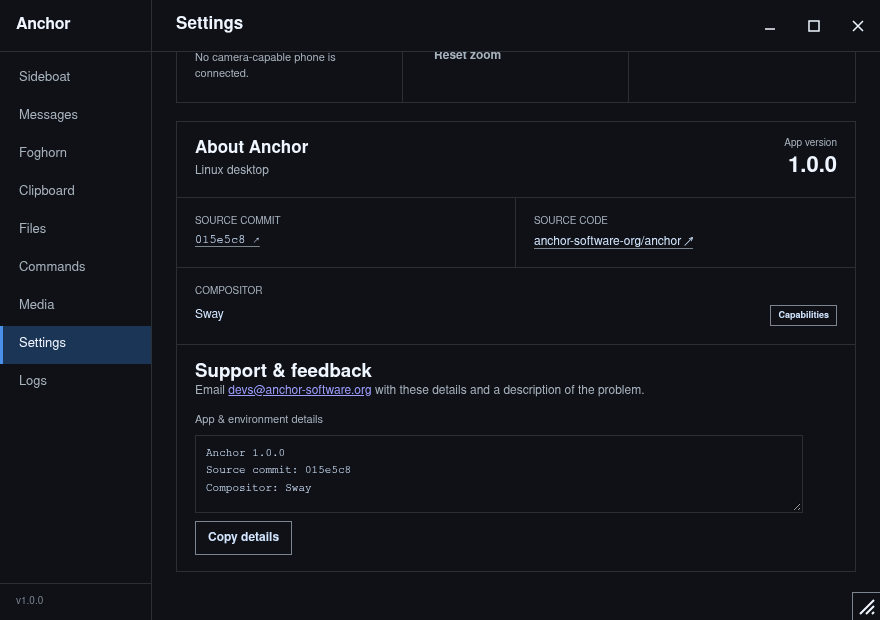
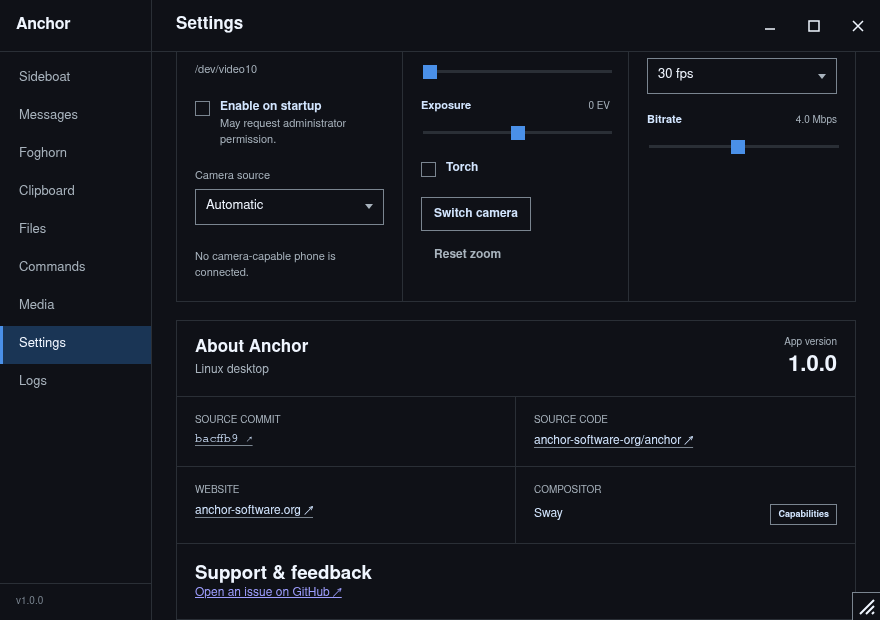
Add Android About links and route support to GitHub

diff --git a/anchor/app/src/main/java/com/anchor/MainActivity.kt b/anchor/app/src/main/java/com/anchor/MainActivity.kt
@@ -2333,34 +2333,7 @@ fun SettingsScreen(
                         Text("Terms of service", modifier = Modifier.weight(1f))
                         Icon(Icons.Default.ChevronRight, contentDescription = null, tint = AnchorGray)
                     }
-                    HorizontalDivider()
-                    Row(
-                        modifier = Modifier
-                            .fillMaxWidth()
-                            .clickable {
-                                val subject = Uri.encode(
-                                    "Anchor Android feedback (v${BuildConfig.VERSION_NAME}, ${BuildConfig.GIT_HASH})"
-                                )
-                                context.startActivity(
-                                    Intent(
-                                        Intent.ACTION_SENDTO,
-                                        Uri.parse("mailto:devs@anchor-software.org?subject=$subject")
-                                    )
-                                )
-                            }
-                            .padding(vertical = 10.dp),
-                        verticalAlignment = Alignment.CenterVertically
-                    ) {
-                        Column(modifier = Modifier.weight(1f)) {
-                            Text("Support & feedback")
-                            Text(
-                                "Email devs@anchor-software.org. Please omit private messages and credentials.",
-                                style = MaterialTheme.typography.bodySmall,
-                                color = AnchorGray
-                            )
-                        }
-                        Icon(Icons.Default.ChevronRight, contentDescription = null, tint = AnchorGray)
-                    }
+
                 }
             }
 
@@ -2371,8 +2344,19 @@ fun SettingsScreen(
                 Column(modifier = Modifier.padding(16.dp)) {
                     Text("About", style = MaterialTheme.typography.titleMedium)
                     Spacer(Modifier.height(12.dp))
-                    SettingsRow("Commit", BuildConfig.GIT_HASH)
-                    SettingsRow("Protocol", BuildConfig.PROTOCOL)
+                    SettingsRow("Version", BuildConfig.VERSION_NAME)
+                    SettingsRow("Build number", BuildConfig.VERSION_CODE.toString())
+                    if (BuildConfig.GIT_HASH.matches(Regex("[0-9a-fA-F]{7,40}"))) {
+                        SettingsLinkRow("Source commit", BuildConfig.GIT_HASH, "https://github.com/anchor-software-org/anchor/commit/${BuildConfig.GIT_HASH}")
+                    } else {
+                        SettingsRow("Source commit", "Unavailable")
+                    }
+                    HorizontalDivider(modifier = Modifier.padding(vertical = 8.dp))
+                    SettingsLinkRow("Website", "anchor-software.org", "https://anchor-software.org")
+                    SettingsLinkRow("Source code", "anchor-software-org/anchor", "https://github.com/anchor-software-org/anchor")
+                    HorizontalDivider(modifier = Modifier.padding(vertical = 8.dp))
+                    Text("Support & feedback", style = MaterialTheme.typography.titleSmall)
+                    SettingsLinkRow("Open an issue on GitHub", null, "https://github.com/anchor-software-org/anchor/issues/new/choose")
                 }
             }
 
@@ -3070,6 +3054,29 @@ fun PairingDialog(pairingState: PairingState.Requested, onAccept: () -> Unit, on
 }
 
 // ─── Utility (keep) ─────────────────────────────────────────────────────
+
+@Composable
+private fun SettingsLinkRow(label: String, value: String?, url: String) {
+    val context = LocalContext.current
+    Row(
+        modifier = Modifier.fillMaxWidth().clickable {
+            try {
+                context.startActivity(Intent(Intent.ACTION_VIEW, Uri.parse(url)))
+            } catch (_: ActivityNotFoundException) {
+                android.widget.Toast.makeText(context, "No browser available to open this link.", android.widget.Toast.LENGTH_SHORT).show()
+            }
+        }.padding(vertical = 10.dp),
+        verticalAlignment = Alignment.CenterVertically
+    ) {
+        Column(Modifier.weight(1f)) {
+            Text(label, style = MaterialTheme.typography.bodyMedium)
+            if (value != null) {
+                Text(value, style = MaterialTheme.typography.bodySmall, color = AnchorGray)
+            }
+        }
+        Icon(Icons.Default.ChevronRight, contentDescription = null, tint = AnchorGray)
+    }
+}
 
 @Composable
 fun SettingsRow(label: String, value: String) {

diff --git a/anchor-desktop/frontend/src/App.svelte b/anchor-desktop/frontend/src/App.svelte
@@ -45,7 +45,7 @@
     switchCamera,
     unpairDevice,
     updateCommand,
-    openSource,
+    openProjectLink,
     type DesktopState,
     type Media,
     type PairedDevice,
@@ -69,24 +69,7 @@
   let desktop: DesktopState | undefined;
   let showWindowControls = false;
   let appVersion: string | undefined;
-  let supportDetailsField: HTMLTextAreaElement | undefined;
-  let supportCopyStatus = '';
-  $: supportDetails = desktop
-    ? `${desktop.appName} ${desktop.version || 'Unknown version'}\nSource commit: ${desktop.build || 'Unknown'}\nCompositor: ${desktop.compositor || 'Unknown'}`
-    : '';
   $: sourceCommit = desktop?.build && /^[0-9a-f]{7,40}$/i.test(desktop.build) ? desktop.build : undefined;
-
-  const copySupportDetails = async () => {
-    supportCopyStatus = '';
-    try {
-      await navigator.clipboard.writeText(supportDetails);
-      supportCopyStatus = 'Copied';
-    } catch {
-      supportDetailsField?.focus();
-      supportDetailsField?.select();
-      supportCopyStatus = 'Press Ctrl+C to copy the selected details.';
-    }
-  };
   let actionError = '';
   let busy = false;
   let smsDraft = '';
@@ -911,11 +894,15 @@
             <dl class="about-grid">
               <div>
                 <dt>Source commit</dt>
-                <dd class="mono">{#if sourceCommit}<a href={`https://github.com/anchor-software-org/anchor/commit/${sourceCommit}`} target="_blank" rel="noreferrer" onclick={(event) => { event.preventDefault(); void runAction(() => openSource(sourceCommit)); }}>{sourceCommit} ↗</a>{:else}Unavailable{/if}</dd>
+                <dd class="mono">{#if sourceCommit}<a href={`https://github.com/anchor-software-org/anchor/commit/${sourceCommit}`} target="_blank" rel="noreferrer" onclick={(event) => { event.preventDefault(); void runAction(() => openProjectLink('commit', sourceCommit)); }}>{sourceCommit} ↗</a>{:else}Unavailable{/if}</dd>
               </div>
               <div>
                 <dt>Source code</dt>
-                <dd><a href="https://github.com/anchor-software-org/anchor" target="_blank" rel="noreferrer" onclick={(event) => { event.preventDefault(); void runAction(() => openSource()); }}>anchor-software-org/anchor ↗</a></dd>
+                <dd><a href="https://github.com/anchor-software-org/anchor" target="_blank" rel="noreferrer" onclick={(event) => { event.preventDefault(); void runAction(() => openProjectLink('source')); }}>anchor-software-org/anchor ↗</a></dd>
+              </div>
+              <div>
+                <dt>Website</dt>
+                <dd><a href="https://anchor-software.org" target="_blank" rel="noreferrer" onclick={(event) => { event.preventDefault(); void runAction(() => openProjectLink('website')); }}>anchor-software.org ↗</a></dd>
               </div>
               <div class="environment-cell">
                 <dt>Compositor</dt>
@@ -948,12 +935,7 @@
             <div class="settings-heading support-heading">
               <div>
                 <h3>Support &amp; feedback</h3>
-                <p>Email <a href="mailto:devs@anchor-software.org?subject=Anchor%20desktop%20feedback">devs@anchor-software.org</a> with these details and a description of the problem.</p>
-                <div class="support-details">
-                  <label for="support-details">App &amp; environment details</label>
-                  <textarea id="support-details" bind:this={supportDetailsField} readonly rows="3" value={supportDetails} placeholder="App details unavailable"></textarea>
-                  <div class="support-copy"><button class="button" disabled={!desktop} onclick={copySupportDetails}>Copy details</button><span role="status">{supportCopyStatus}</span></div>
-                </div>
+                <p><a href="https://github.com/anchor-software-org/anchor/issues/new/choose" target="_blank" rel="noreferrer" onclick={(event) => { event.preventDefault(); void runAction(() => openProjectLink('issues')); }}>Open an issue on GitHub ↗</a></p>
               </div>
             </div>
           </section>

diff --git a/anchor-desktop/frontend/src/app.css b/anchor-desktop/frontend/src/app.css
@@ -308,19 +308,14 @@ input:focus, select:focus { border-color: var(--accent); }
 .about-version strong { color: var(--splash); font-size: 22px; font-weight: 600; font-variant-numeric: tabular-nums; }
 .about-grid { display: grid; grid-template-columns: repeat(2, minmax(0, 1fr)); margin: 0; }
 .about-grid > div { min-width: 0; padding: 18px; border-right: 1px solid var(--rock-stroke); }
-.about-grid > div:nth-child(2) { border-right: 0; }
+.about-grid > div:nth-child(even) { border-right: 0; }
+.about-grid > div:nth-child(n + 3) { border-top: 1px solid var(--rock-stroke); }
 .settings-section > .support-heading { margin: 0; border-top: 1px solid var(--rock-stroke); border-bottom: 0; }
 .about-grid dt { color: var(--rock-highlight); font-size: 10px; text-transform: uppercase; }
 .about-grid dd { margin: 7px 0 0; color: var(--splash-ring); font-size: 12px; overflow-wrap: anywhere; }
-.about-grid .environment-cell { position: relative; grid-column: 1 / -1; border-top: 1px solid var(--rock-stroke); border-right: 0; }
+.about-grid .environment-cell { position: relative; }
 .about-grid a { color: var(--splash-ring); text-decoration-color: var(--rock); text-underline-offset: 3px; }
 .about-grid a:hover { color: var(--sky); }
-.support-details { display: grid; max-width: 38rem; gap: 8px; margin-top: 16px; }
-.support-details label { color: var(--rock-highlight); font-size: 11px; }
-.support-details textarea { width: 100%; min-height: 78px; padding: 10px; resize: vertical; border: 1px solid var(--rock-stroke); color: var(--splash-ring); background: var(--ink); font: 11px/1.6 ui-monospace, monospace; }
-.support-details textarea:focus { outline: 1px solid var(--sky); }
-.support-copy { display: flex; align-items: center; flex-wrap: wrap; gap: 10px; }
-.support-copy [role="status"] { color: var(--rock-highlight); font-size: 11px; }
 .about-grid .environment-value { display: flex; overflow: visible; align-items: center; justify-content: space-between; gap: 16px; }
 .capabilities-menu { position: relative; flex: 0 0 auto; }
 .capabilities-menu summary { padding: 4px 7px; border: 1px solid var(--rock); color: var(--splash-ring); background: transparent; font-size: 9px; font-weight: 600; list-style: none; cursor: pointer; }

diff --git a/anchor-desktop/frontend/src/lib/anchor.ts b/anchor-desktop/frontend/src/lib/anchor.ts
@@ -80,7 +80,8 @@ export type DesktopState = {
   camera: Camera;
 };
 
-export const openSource = (commit?: string) => invoke<void>('open_source', { commit });
+export const openProjectLink = (page: 'source' | 'commit' | 'website' | 'issues', commit?: string) =>
+  invoke<void>('open_project_link', { page, commit });
 
 export const getDesktopState = (section?: string) => invoke<DesktopState>('desktop_state', { section });
 export const setStreaming = (enabled: boolean) => invoke<void>('set_streaming', { enabled });

diff --git a/anchor-desktop/src/tauri_app.rs b/anchor-desktop/src/tauri_app.rs
@@ -166,26 +166,28 @@ controller_action!(set_camera_exposure(value: i32) => set_camera_exposure(value)
 controller_action!(set_camera_torch(enabled: bool) => set_camera_torch(enabled));
 controller_action!(switch_camera() => switch_camera());
 
-fn source_url(commit: Option<&str>) -> Result<String, String> {
+fn project_url(page: &str, commit: Option<&str>) -> Result<String, String> {
     let repository = "https://github.com/anchor-software-org/anchor";
-    match commit {
-        None => Ok(repository.into()),
-        Some(hash)
+    match (page, commit) {
+        ("source", _) => Ok(repository.into()),
+        ("website", _) => Ok("https://anchor-software.org".into()),
+        ("issues", _) => Ok(format!("{repository}/issues/new/choose")),
+        ("commit", Some(hash))
             if (7..=40).contains(&hash.len()) && hash.bytes().all(|c| c.is_ascii_hexdigit()) =>
         {
             Ok(format!("{repository}/commit/{hash}"))
         }
-        Some(_) => Err("Source commit is unavailable.".into()),
+        _ => Err("Project link is unavailable.".into()),
     }
 }
 
 #[tauri::command]
-fn open_source(commit: Option<String>) -> Result<(), String> {
+fn open_project_link(page: String, commit: Option<String>) -> Result<(), String> {
     std::process::Command::new("xdg-open")
-        .arg(source_url(commit.as_deref())?)
+        .arg(project_url(&page, commit.as_deref())?)
         .spawn()
         .map(|_| ())
-        .map_err(|error| format!("Could not open source code: {error}"))
+        .map_err(|error| format!("Could not open project link: {error}"))
 }
 
 pub fn run() {
@@ -218,7 +220,7 @@ pub fn run() {
         })
         .invoke_handler(tauri::generate_handler![
             desktop_state,
-            open_source,
+            open_project_link,
             set_streaming,
             select_output,
             create_virtual_display,
@@ -264,17 +266,27 @@ pub fn run() {
 
 #[cfg(test)]
 mod tests {
-    use super::source_url;
+    use super::project_url;
 
     #[test]
-    fn source_links_stay_in_the_anchor_repository() {
-        assert_eq!(source_url(None).unwrap(), "https://github.com/anchor-software-org/anchor");
+    fn project_links_use_known_destinations() {
         assert_eq!(
-            source_url(Some("015e5c8")).unwrap(),
+            project_url("source", None).unwrap(),
+            "https://github.com/anchor-software-org/anchor"
+        );
+        assert_eq!(
+            project_url("commit", Some("015e5c8")).unwrap(),
             "https://github.com/anchor-software-org/anchor/commit/015e5c8"
         );
+        assert_eq!(project_url("website", None).unwrap(), "https://anchor-software.org");
+        assert_eq!(
+            project_url("issues", None).unwrap(),
+            "https://github.com/anchor-software-org/anchor/issues/new/choose"
+        );
+        assert!(project_url("commit", None).is_err());
+        assert!(project_url("https://example.com", None).is_err());
         for invalid in ["", "unknown", "abc123", "abcdef0/../../issues", "https://example.com"] {
-            assert!(source_url(Some(invalid)).is_err());
+            assert!(project_url("commit", Some(invalid)).is_err());
         }
     }
 }

diff --git a/docs/maintainers/screenshots/about/README.md b/docs/maintainers/screenshots/about/README.md
@@ -1,8 +1,9 @@
 # About settings screenshots
 
-Captured in Chromium from the Vite frontend with mocked Tauri IPC. The fixture uses Anchor 1.0.0, source commit `015e5c8`, Sway, and no paired devices.
+- `about-android.png`: native debug APK in an isolated Android emulator, API 37.1, x86_64, 1080 × 2400. Shows version 1.0.2, build 102, and source commit `bacffb9`.
+- `about-desktop.png`: About panel at the default 1180 × 780 desktop window size.
+- `about-compact.png`: Settings at the minimum 880 × 620 desktop window size.
 
-- `about-desktop.png`: About panel at the default 1180 × 780 window size.
-- `about-compact.png`: Settings at the minimum 880 × 620 window size.
+Desktop captures use Chromium with mocked Tauri IPC: Anchor 1.0.0, source commit `bacffb9`, Sway, and no paired devices. Browser checks covered all four project-link command arguments, the GitHub issue URL, missing metadata, capabilities, the Settings heading, and horizontal overflow at the minimum size.
 
-Browser checks covered the source-link command arguments, copying all three support-detail lines, selecting the text when clipboard access is denied, missing metadata, the capabilities menu, and horizontal overflow at the minimum size. These captures do not verify the native WebKit clipboard or system browser launch.
+Android checks confirmed the version/build fields and browser launches for the source commit, repository, website, and GitHub issue links. Desktop system-browser launch still needs native verification.
